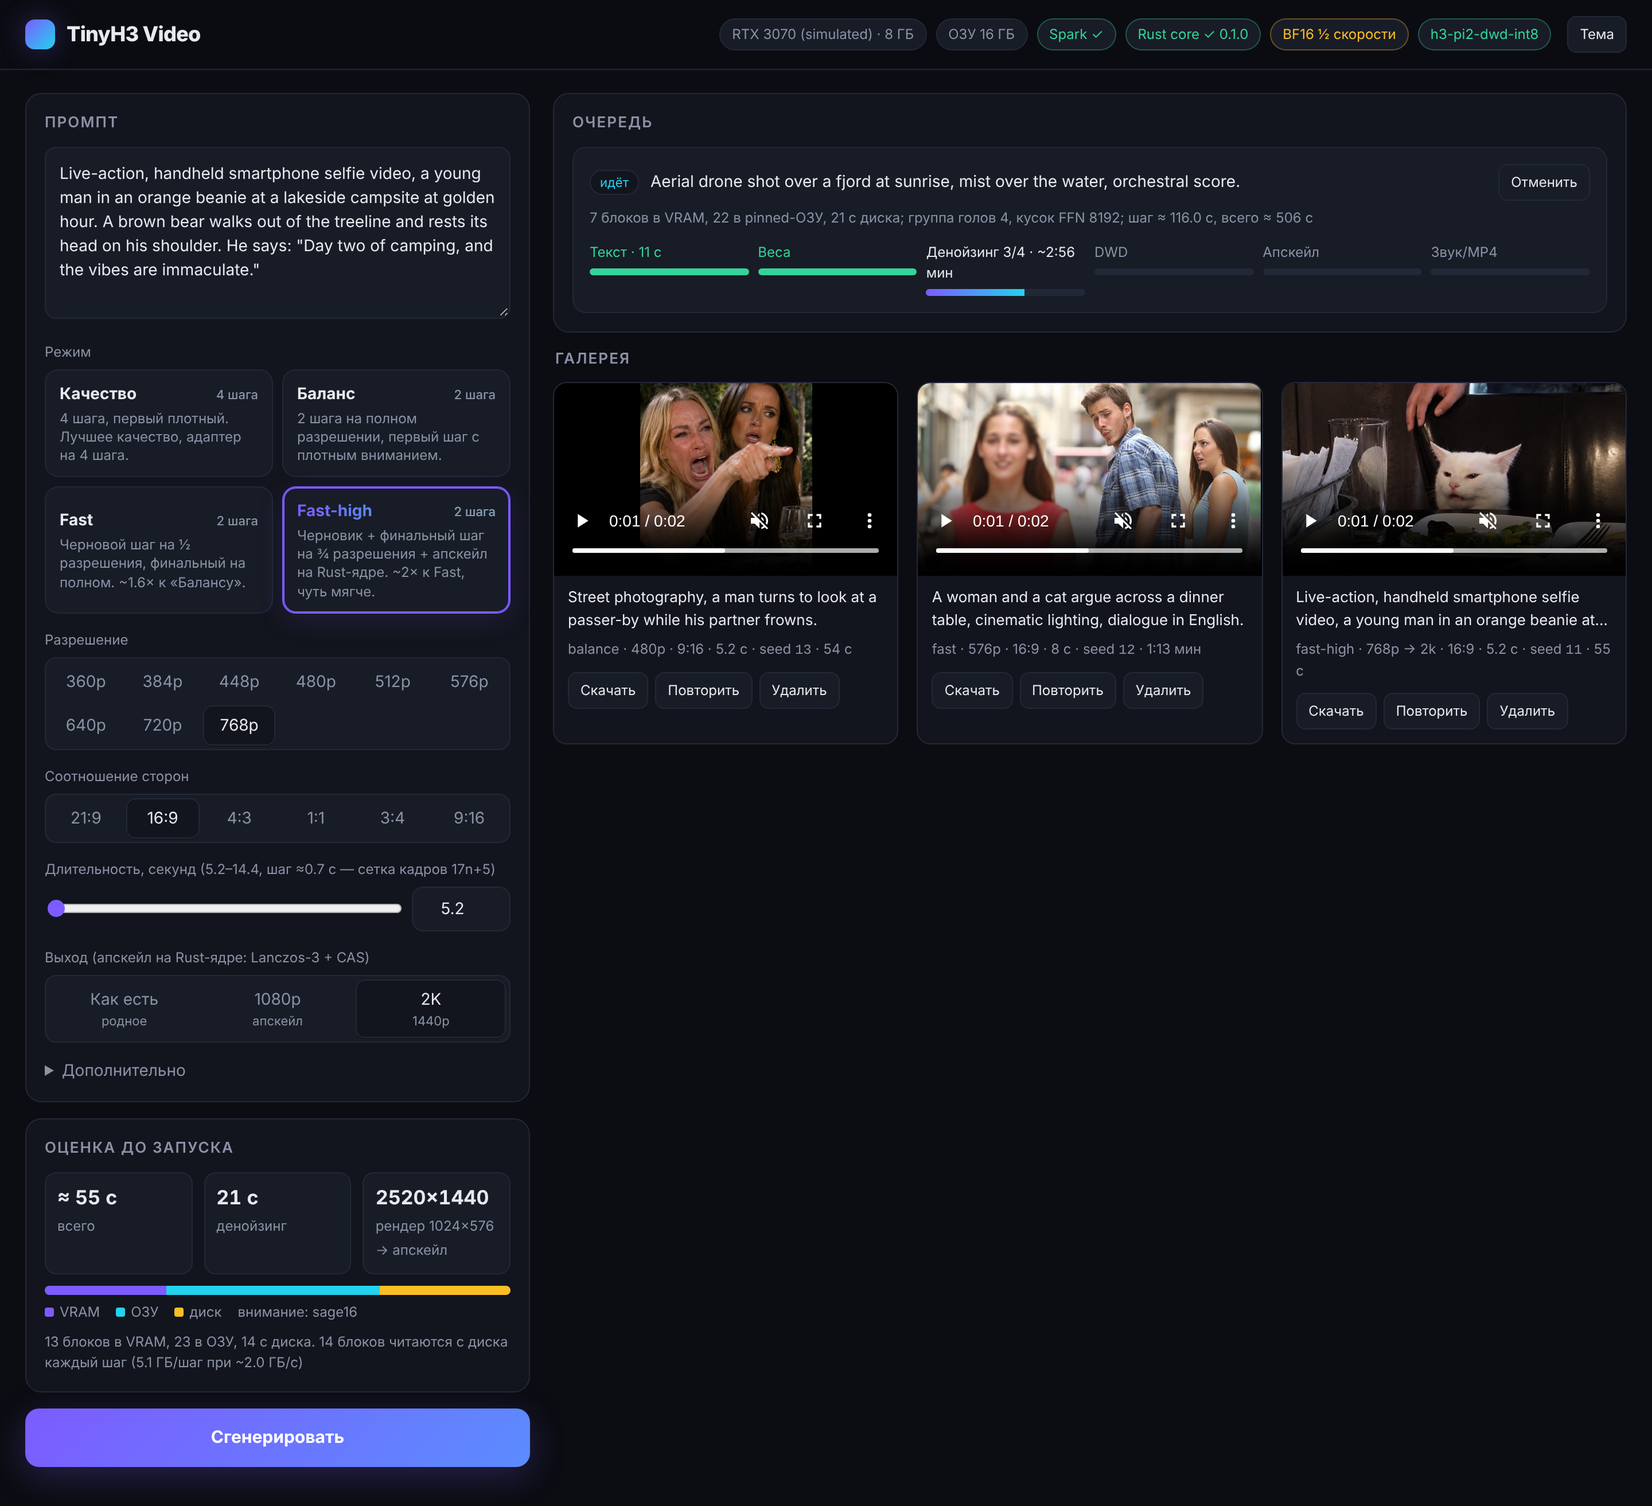
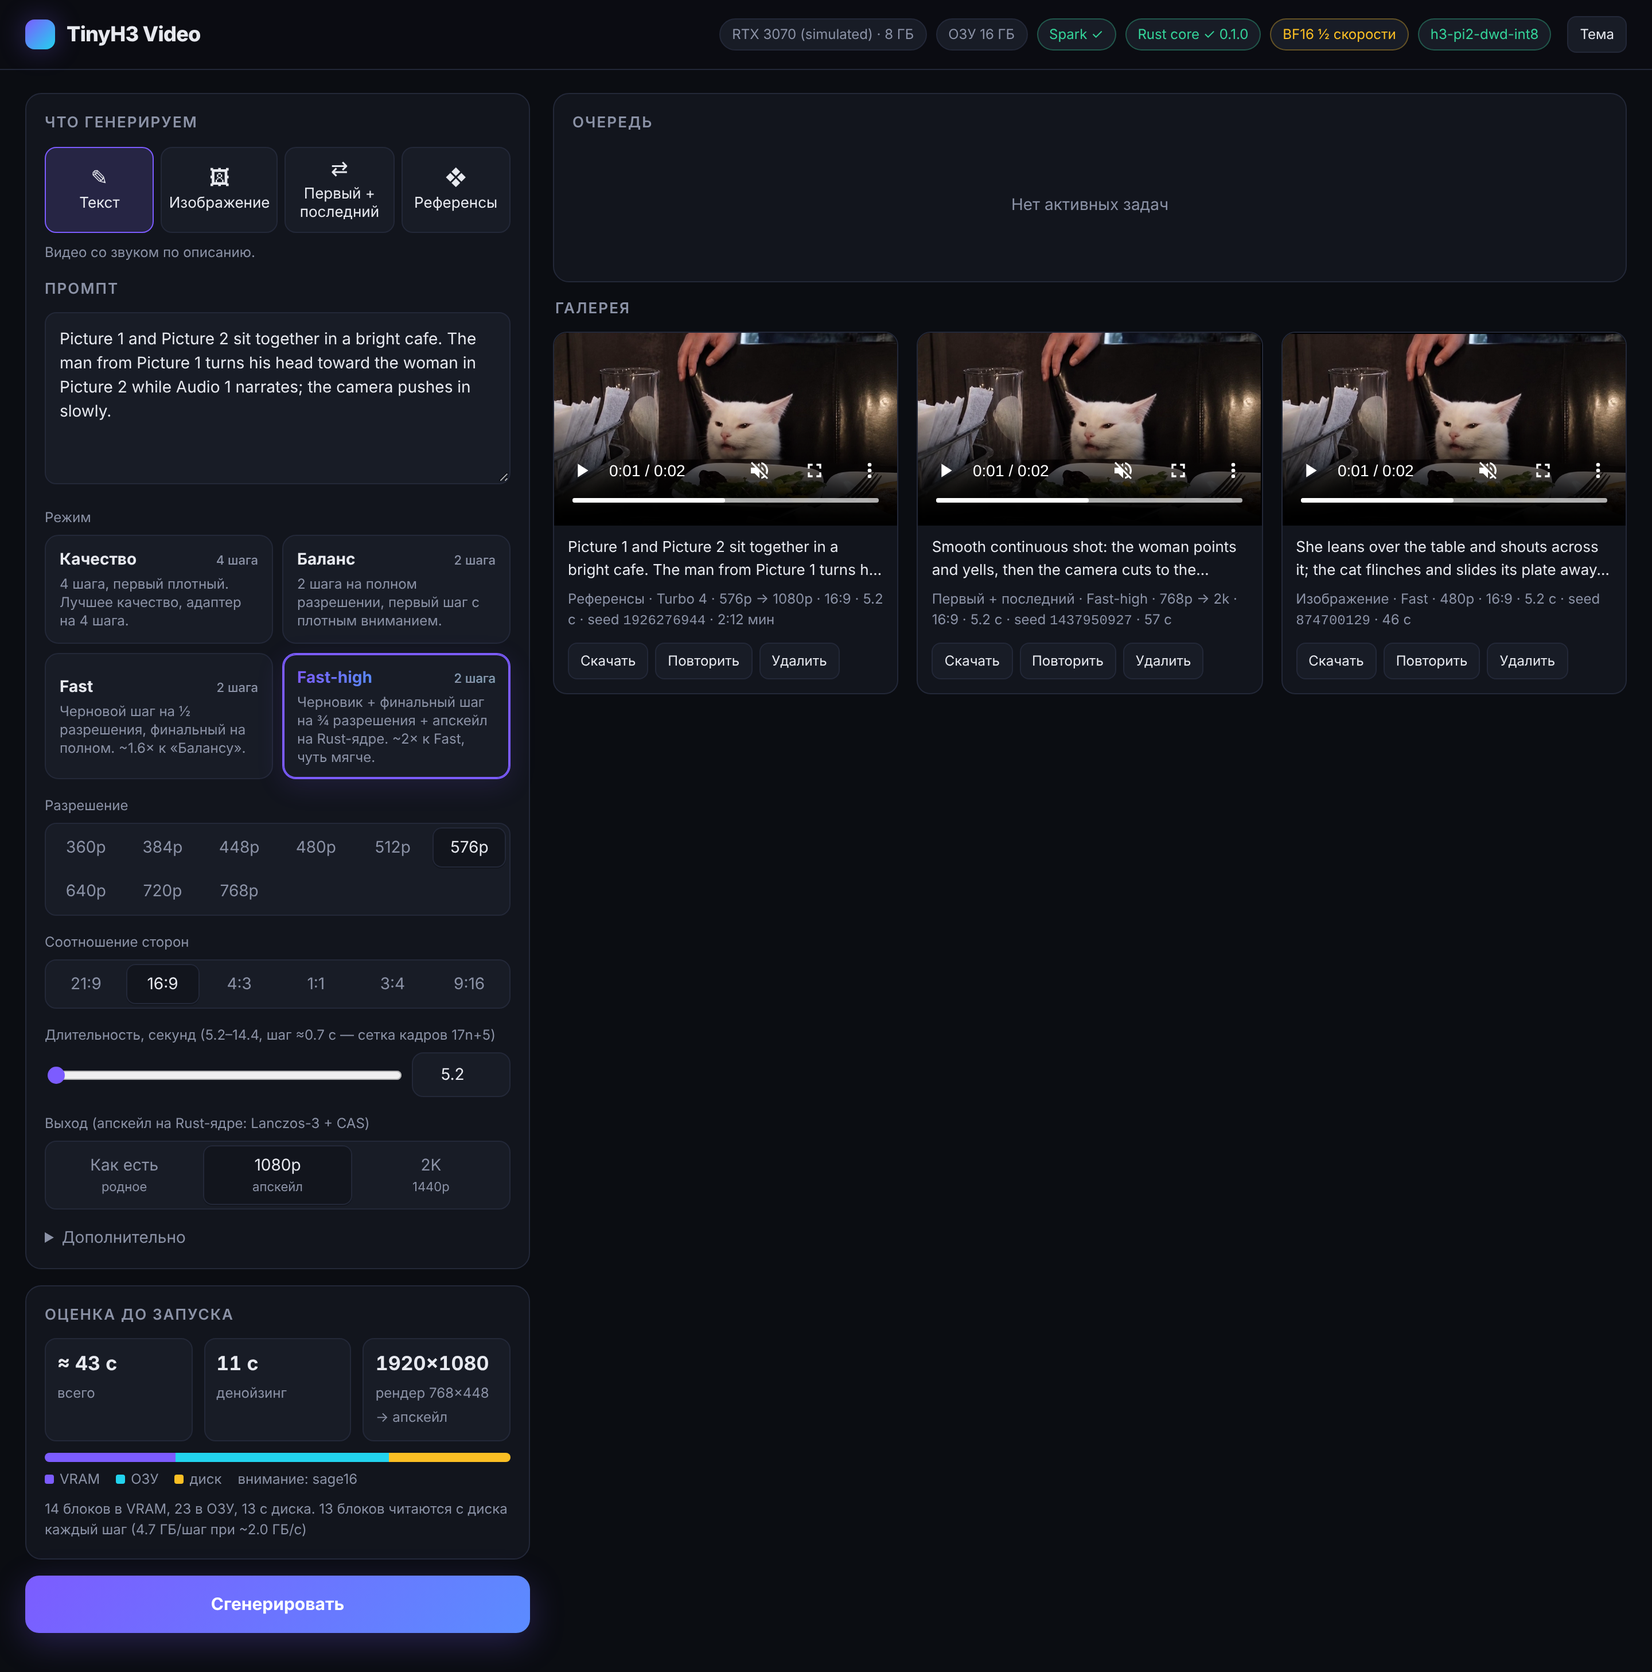
UI for image, first/last-frame and reference tasks; docs and screenshots
- task tabs, drop zones with previews, reference list with per-kind limits
- Ref2VA shows its fixed Turbo 4 mode and an install hint when missing
- demo server and screenshots for every task, desktop and mobile
- README: tasks table, setup-ref, reference handling

Claude-Session: https://claude.ai/code/session_01XThkdeEcXwb9M7zqvHq3DE

diff --git a/tinyh3/ui/index.html b/tinyh3/ui/index.html
@@ -40,6 +40,27 @@ textarea:focus, select:focus, input:focus { border-color: var(--accent); }
 .seg { display: flex; background: var(--panel2); border: 1px solid var(--line); border-radius: 10px; padding: 3px; gap: 3px; flex-wrap: wrap; }
 .seg button { flex: 1; border: 0; background: transparent; padding: 7px 8px; border-radius: 8px; cursor: pointer; color: var(--muted); min-width: 52px; }
 .seg button.on { background: var(--panel); color: var(--text); box-shadow: 0 1px 0 #0003, inset 0 0 0 1px var(--line); }
+.tasks { display: grid; grid-template-columns: repeat(4, 1fr); gap: 6px; }
+.task { border: 1px solid var(--line); background: var(--panel2); border-radius: 10px; padding: 8px 6px; cursor: pointer; text-align: center; font-size: 13px; line-height: 1.25; }
+.task small { display: block; color: var(--muted); font-size: 11px; margin-top: 2px; }
+.task.on { border-color: var(--accent); background: color-mix(in srgb, var(--accent) 14%, var(--panel2)); }
+.task .ico { display: block; font-size: 18px; margin-bottom: 2px; }
+.drops { display: grid; gap: 10px; }
+.drops.two { grid-template-columns: 1fr 1fr; }
+.drop { position: relative; border: 1.5px dashed var(--line); border-radius: 12px; min-height: 108px; background: var(--panel2); display: flex; align-items: center; justify-content: center; text-align: center; color: var(--muted); font-size: 12px; cursor: pointer; overflow: hidden; padding: 8px; }
+.drop:hover, .drop.over { border-color: var(--accent); color: var(--text); }
+.drop img, .drop video { position: absolute; inset: 0; width: 100%; height: 100%; object-fit: cover; }
+.drop b { display: block; color: var(--text); font-size: 13px; margin-bottom: 2px; }
+.drop .tag { position: absolute; left: 6px; top: 6px; z-index: 2; background: #000a; color: #fff; border-radius: 6px; padding: 1px 7px; font-size: 11px; }
+.drop .x, .ref .x { position: absolute; right: 6px; top: 6px; z-index: 2; border: 0; background: #000b; color: #fff; width: 22px; height: 22px; border-radius: 50%; cursor: pointer; line-height: 22px; padding: 0; }
+.refs { display: grid; grid-template-columns: repeat(auto-fill, minmax(86px, 1fr)); gap: 8px; margin-top: 10px; }
+.ref { position: relative; aspect-ratio: 1; border-radius: 10px; overflow: hidden; background: var(--panel2); border: 1px solid var(--line); display: flex; align-items: center; justify-content: center; font-size: 28px; }
+.ref img, .ref video { position: absolute; inset: 0; width: 100%; height: 100%; object-fit: cover; }
+.ref .tag { position: absolute; left: 4px; bottom: 4px; z-index: 2; background: #000a; color: #fff; border-radius: 5px; padding: 0 6px; font-size: 10px; }
+.counts { display: flex; gap: 12px; font-size: 12px; color: var(--muted); margin-top: 8px; flex-wrap: wrap; }
+.counts b { color: var(--text); font-variant-numeric: tabular-nums; }
+.fixed-mode { border: 1px solid var(--line); background: var(--panel2); border-radius: 12px; padding: 10px 12px; font-size: 12px; color: var(--muted); }
+.fixed-mode b { color: var(--text); font-size: 14px; display: block; margin-bottom: 2px; }
 .modes { display: grid; grid-template-columns: 1fr 1fr; gap: 8px; }
 .mode { text-align: left; border: 1px solid var(--line); background: var(--panel2); border-radius: 12px; padding: 10px 12px; cursor: pointer; }
 .mode b { display: flex; justify-content: space-between; align-items: baseline; font-size: 14px; }
@@ -105,10 +126,16 @@ details summary { cursor: pointer; color: var(--muted); }
   <section class="stack">
     <div class="card stack">
       <div>
+        <h2>Что генерируем</h2>
+        <div class="tasks" id="tasks"></div>
+        <div class="note" id="task-about" style="margin-top:8px"></div>
+      </div>
+      <div id="sources"></div>
+      <div>
         <h2>Промпт</h2>
         <textarea id="prompt" placeholder="Опишите сцену, движение камеры, звук и реплики. Например: Live-action, handheld smartphone selfie video…"></textarea>
       </div>
-      <div>
+      <div id="mode-box">
         <label class="f">Режим</label>
         <div class="modes" id="sampler"></div>
       </div>
@@ -189,7 +216,13 @@ const $ = (s) => document.querySelector(s);
 const STAGES = [['text', 'Текст'], ['load', 'Веса'], ['denoise', 'Денойзинг'], ['decode', 'DWD'], ['upscale', 'Апскейл'], ['audio', 'Звук/MP4']];
 const store = { get(k, d) { try { return JSON.parse(localStorage.getItem('th3.' + k)) ?? d; } catch { return d; } },
                 set(k, v) { try { localStorage.setItem('th3.' + k, JSON.stringify(v)); } catch {} } };
-const state = Object.assign({ sampler: 'fast', resolution: '480p', aspect: '16:9', spark_mode: '', upscale: 'none' }, store.get('form', {}));
+const state = Object.assign({ sampler: 'fast', resolution: '480p', aspect: '16:9', spark_mode: '', upscale: 'none', task: 't2v' }, store.get('form', {}));
+state.first = null; state.last = null; state.refs = [];  // uploaded files are not restored across reloads
+let TASKS = {}, LIMITS = { image: 9, video: 3, audio: 3, total: 12 }, REF_OK = true;
+const TASK_ICON = { t2v: '✎', i2v: '🖼', flf2v: '⇄', ref2v: '❖' };
+const KIND_ICON = { image: '🖼', video: '🎞', audio: '♪' };
+const EXT = { png: 'image', jpg: 'image', jpeg: 'image', webp: 'image', bmp: 'image', mp4: 'video', mov: 'video', mkv: 'video', webm: 'video', wav: 'audio', mp3: 'audio', flac: 'audio', m4a: 'audio', ogg: 'audio' };
+if (!['t2v', 'i2v', 'flf2v', 'ref2v'].includes(state.task)) state.task = 't2v';
 if (!['quality', 'balance', 'fast', 'fast-high'].includes(state.sampler)) state.sampler = 'fast';
 let MODES = {};
 let jobs = [];
@@ -206,6 +239,75 @@ function seg(id, values, key, labels) {
     b.onclick = () => { state[key] = b.dataset.v; seg(id, null, key); saveForm(); estimate(); };
   });
 }
+function kindOf(file) { return EXT[(file.name.split('.').pop() || '').toLowerCase()] || null; }
+
+async function uploadFile(file) {
+  const r = await fetch('/api/uploads?name=' + encodeURIComponent(file.name), { method: 'POST', body: file,
+    headers: { 'Content-Type': 'application/octet-stream' } });
+  if (!r.ok) { let m = r.statusText; try { m = (await r.json()).detail || m; } catch {} throw new Error(m); }
+  return r.json();
+}
+
+function tasks() {
+  $('#tasks').innerHTML = Object.entries(TASKS).map(([k, t]) => `<button class="task ${k === state.task ? 'on' : ''}" data-v="${k}">
+    <span class="ico">${TASK_ICON[k] || ''}</span>${esc(t.title)}</button>`).join('');
+  $('#tasks').querySelectorAll('button').forEach(b => b.onclick = () => { state.task = b.dataset.v; tasks(); sources(); saveForm(); estimate(); });
+  const t = TASKS[state.task];
+  $('#task-about').textContent = (t ? t.about : '') + (state.task === 'ref2v' && !REF_OK ? ' Ref2VA не установлен: выполните `tinyh3 setup-ref`.' : '');
+  $('#mode-box').style.display = state.task === 'ref2v' ? 'none' : '';
+}
+
+function dropZone(slot, label, hint) {
+  const f = state[slot];
+  return `<div class="drop" data-slot="${slot}">${f ? `<span class="tag">${label}</span><img src="/api/uploads/${f.id}" alt=""><button class="x" data-x="${slot}" title="Убрать">×</button>`
+    : `<div><b>${label}</b>${hint}<br>перетащите или нажмите</div>`}</div>`;
+}
+
+function sources() {
+  const box = $('#sources'), t = state.task;
+  if (t === 't2v') { box.innerHTML = ''; return; }
+  if (t === 'i2v') box.innerHTML = `<h2>Кадр</h2><div class="drops">${dropZone('first', 'Первый кадр', 'PNG · JPG · WebP')}</div>`;
+  else if (t === 'flf2v') box.innerHTML = `<h2>Кадры</h2><div class="drops two">${dropZone('first', 'Первый кадр', 'начало')}${dropZone('last', 'Последний кадр', 'конец')}</div>`;
+  else {
+    const c = { image: 0, video: 0, audio: 0 }; state.refs.forEach(r => c[r.kind]++);
+    box.innerHTML = `<h2>Референсы</h2><div class="drops"><div class="drop" data-slot="refs"><div><b>Добавить референсы</b>изображения, видео (со звуком), аудио<br>перетащите или нажмите</div></div></div>
+      <div class="refs">${state.refs.map((r, i) => `<div class="ref">${r.kind === 'image' ? `<img src="/api/uploads/${r.id}" alt="">` : r.kind === 'video' ? `<video src="/api/uploads/${r.id}#t=0.5" muted preload="metadata"></video>` : KIND_ICON.audio}
+        <span class="tag">${KIND_ICON[r.kind]} ${i + 1}</span><button class="x" data-rm="${i}" title="Убрать">×</button></div>`).join('')}</div>
+      <div class="counts"><span>изображений <b>${c.image}/${LIMITS.image}</b></span><span>видео <b>${c.video}/${LIMITS.video}</b></span><span>аудио <b>${c.audio}/${LIMITS.audio}</b></span><span>всего <b>${state.refs.length}/${LIMITS.total}</b></span></div>
+      <div class="note" style="margin-top:6px">Порядок важен: в промпте референсы называются «Picture 1», «Video 1», «Audio 1» по очереди.</div>`;
+  }
+  const pick = (slot, files) => handleFiles(slot, [...files]);
+  box.querySelectorAll('.drop').forEach(z => {
+    const slot = z.dataset.slot;
+    z.onclick = (e) => { if (e.target.closest('.x')) return;
+      const inp = document.createElement('input'); inp.type = 'file'; inp.multiple = slot === 'refs';
+      inp.accept = slot === 'refs' ? 'image/*,video/*,audio/*' : 'image/*'; inp.onchange = () => pick(slot, inp.files); inp.click(); };
+    z.ondragover = (e) => { e.preventDefault(); z.classList.add('over'); };
+    z.ondragleave = () => z.classList.remove('over');
+    z.ondrop = (e) => { e.preventDefault(); z.classList.remove('over'); pick(slot, e.dataTransfer.files); };
+  });
+  box.querySelectorAll('[data-x]').forEach(b => b.onclick = (e) => { e.stopPropagation(); state[b.dataset.x] = null; sources(); estimate(); });
+  box.querySelectorAll('[data-rm]').forEach(b => b.onclick = () => { state.refs.splice(+b.dataset.rm, 1); sources(); estimate(); });
+}
+
+async function handleFiles(slot, files) {
+  for (const file of files) {
+    const kind = kindOf(file);
+    if (!kind) { toast(`Формат не поддерживается: ${file.name}`); continue; }
+    if (slot !== 'refs' && kind !== 'image') { toast('Здесь нужно изображение'); continue; }
+    if (slot === 'refs') {
+      const n = state.refs.filter(r => r.kind === kind).length;
+      if (n >= LIMITS[kind] || state.refs.length >= LIMITS.total) { toast(`Лимит референсов: ${kind} — ${LIMITS[kind]}, всего ${LIMITS.total}`); continue; }
+    }
+    try {
+      toast(`Загрузка ${file.name}…`);
+      const up = await uploadFile(file);
+      if (slot === 'refs') state.refs.push({ id: up.id, name: up.name, kind: up.kind }); else state[slot] = { id: up.id, name: up.name };
+      sources(); estimate(); $('#toast').style.display = 'none';
+    } catch (e) { toast(e.message); }
+  }
+}
+
 function modes() {
   const el = $('#sampler');
   el.innerHTML = Object.entries(MODES).map(([k, m]) => `<button class="mode ${k === state.sampler ? 'on' : ''} ${k === 'fast-high' ? 'hot' : ''}" data-v="${k}">
@@ -218,7 +320,7 @@ function setSeconds(v) {
 }
 function saveForm() {
   state.seconds = +$('#seconds').value; state.seed = +$('#seed').value; state.attention = $('#attention').value;
-  state.prompt = $('#prompt').value; store.set('form', state);
+  state.prompt = $('#prompt').value; const { first, last, refs, ...persist } = state; store.set('form', persist);
 }
 
 async function api(path, opts = {}) {
@@ -240,7 +342,8 @@ async function loadInfo() {
   chips.push(`<span class="chip ${info.models.length ? 'ok' : 'warn'}">${info.models.length ? esc(info.models[0]) : 'нет модели'}</span>`);
   $('#chips').innerHTML = chips.join('');
   $('#advice').textContent = (info.advice || []).slice(1).join(' ');
-  MODES = info.samplers; modes();
+  MODES = info.samplers; TASKS = info.tasks; LIMITS = info.ref_limits; REF_OK = info.ref_available;
+  modes(); tasks(); sources();
   seg('res', info.resolutions, 'resolution');
   seg('aspect', info.aspects, 'aspect');
   if (!info.models.length) toast('Модель не найдена: выполните `tinyh3 setup`');
@@ -253,7 +356,7 @@ function estimate() {
     try {
       const e = await api('/api/estimate', { method: 'POST', body: JSON.stringify({ seconds: +$('#seconds').value,
         resolution: state.resolution, aspect: state.aspect, sampler: state.sampler, attention: $('#attention').value,
-        upscale: state.upscale }) });
+        upscale: state.upscale, task: state.task, references: state.refs.map(r => ({ kind: r.kind, id: r.id })) }) });
       $('#e-total').textContent = e.fits ? '≈ ' + fmt(e.est.total_s) : '✕';
       $('#e-step').textContent = e.fits ? fmt(e.est.denoise_s) : '—';
       $('#e-size').textContent = `${e.width}×${e.height}`;
@@ -295,7 +398,7 @@ function render() {
     const media = j.status === 'done' ? `<video src="/api/videos/${j.id}" controls preload="metadata" playsinline></video>` :
       `<div class="empty"><span class="badge ${j.status}">${j.status === 'failed' ? 'ошибка' : 'отменено'}</span><div class="note" style="margin-top:8px">${esc(j.error || '')}</div></div>`;
     return `<div class="tile">${media}<div class="meta"><p>${esc(r.prompt)}</p>
-      ${esc((MODES[r.sampler] || {}).title || r.sampler)} · ${esc(r.resolution)}${r.upscale && r.upscale !== 'none' ? ' → ' + esc(r.upscale) : ''} · ${esc(r.aspect)} · ${r.seconds} с · seed <span class="mono">${rep.request ? rep.request.seed : r.seed}</span>
+      ${esc((TASKS[r.task || 't2v'] || {}).title || '')} · ${r.task === 'ref2v' ? 'Turbo 4' : esc((MODES[r.sampler] || {}).title || r.sampler)} · ${esc(r.resolution)}${r.upscale && r.upscale !== 'none' ? ' → ' + esc(r.upscale) : ''} · ${esc(r.aspect)} · ${r.seconds} с · seed <span class="mono">${rep.request ? rep.request.seed : r.seed}</span>
       ${rep.total_seconds ? ' · ' + fmt(rep.total_seconds) : ''}</div>
       <div class="acts">${j.status === 'done' ? `<a class="btn" href="/api/videos/${j.id}" download>Скачать</a>` : ''}
       <button class="btn" onclick='reuse(${JSON.stringify(j.id)})'>Повторить</button>
@@ -310,8 +413,11 @@ function reuse(id) {
   const j = jobs.find(x => x.id === id); if (!j) return;
   const r = j.request, seed = j.report && j.report.request ? j.report.request.seed : r.seed;
   $('#prompt').value = r.prompt; $('#seed').value = seed; setSeconds(r.seconds);
-  Object.assign(state, { sampler: r.sampler, resolution: r.resolution, aspect: r.aspect, spark_mode: r.spark_mode || '', upscale: r.upscale || 'none' });
-  modes(); ['res', 'aspect', 'spark_mode', 'upscale'].forEach(id => seg(id, null, id === 'res' ? 'resolution' : id));
+  const idOf = (p) => p ? p.split('/').pop() : null;
+  Object.assign(state, { sampler: r.sampler, resolution: r.resolution, aspect: r.aspect, spark_mode: r.spark_mode || '', upscale: r.upscale || 'none',
+    task: r.task || 't2v', first: r.first ? { id: idOf(r.first) } : null, last: r.last ? { id: idOf(r.last) } : null,
+    refs: (r.references || []).map(x => ({ id: x.id || idOf(x.path), kind: x.kind })) });
+  tasks(); sources(); modes(); ['res', 'aspect', 'spark_mode', 'upscale'].forEach(id => seg(id, null, id === 'res' ? 'resolution' : id));
   saveForm(); estimate(); window.scrollTo({ top: 0, behavior: 'smooth' });
 }
 
@@ -319,10 +425,17 @@ $('#go').onclick = async () => {
   saveForm();
   const prompt = $('#prompt').value.trim();
   if (!prompt) { toast('Напишите промпт'); return; }
+  const t = state.task;
+  if ((t === 'i2v' || t === 'flf2v') && !state.first) { toast('Добавьте первый кадр'); return; }
+  if (t === 'flf2v' && !state.last) { toast('Добавьте последний кадр'); return; }
+  if (t === 'ref2v' && !state.refs.length) { toast('Добавьте хотя бы один референс'); return; }
+  if (t === 'ref2v' && state.refs.every(r => r.kind === 'audio')) { toast('Аудио нужно дополнить изображением или видео'); return; }
   try {
     await api('/api/jobs', { method: 'POST', body: JSON.stringify({ prompt, seconds: +$('#seconds').value, resolution: state.resolution,
       aspect: state.aspect, sampler: state.sampler, seed: +$('#seed').value, attention: $('#attention').value,
-      spark_mode: state.spark_mode || null, upscale: state.upscale }) });
+      spark_mode: state.spark_mode || null, upscale: state.upscale, task: t,
+      first: t === 'i2v' || t === 'flf2v' ? state.first.id : null, last: t === 'flf2v' ? state.last.id : null,
+      references: t === 'ref2v' ? state.refs.map(r => ({ kind: r.kind, id: r.id })) : [] }) });
     refresh();
   } catch (e) { toast(e.message); }
 };

diff --git a/scripts/ui_demo.py b/scripts/ui_demo.py
@@ -21,7 +21,7 @@ os.environ.setdefault('TINYH3_SIMULATE', '8,16')
 os.environ.setdefault('TINYH3_HOME', tempfile.mkdtemp(prefix='tinyh3-demo-'))
 _demo_model = Path(os.environ['TINYH3_HOME']) / 'models' / 'h3-pi2-dwd-int8'
 _demo_model.mkdir(parents=True, exist_ok=True)
-(_demo_model / 'manifest.json').write_text('{"format": "tinyh3-store-v1", "recipe": {"steps": 2, "demo": true}}')
+(_demo_model / "manifest.json").write_text('{"format": "tinyh3-store-v1", "recipe": {"steps": 2, "demo": true}, "dit_ref": {}}')
 
 import torch  # noqa: E402
 
